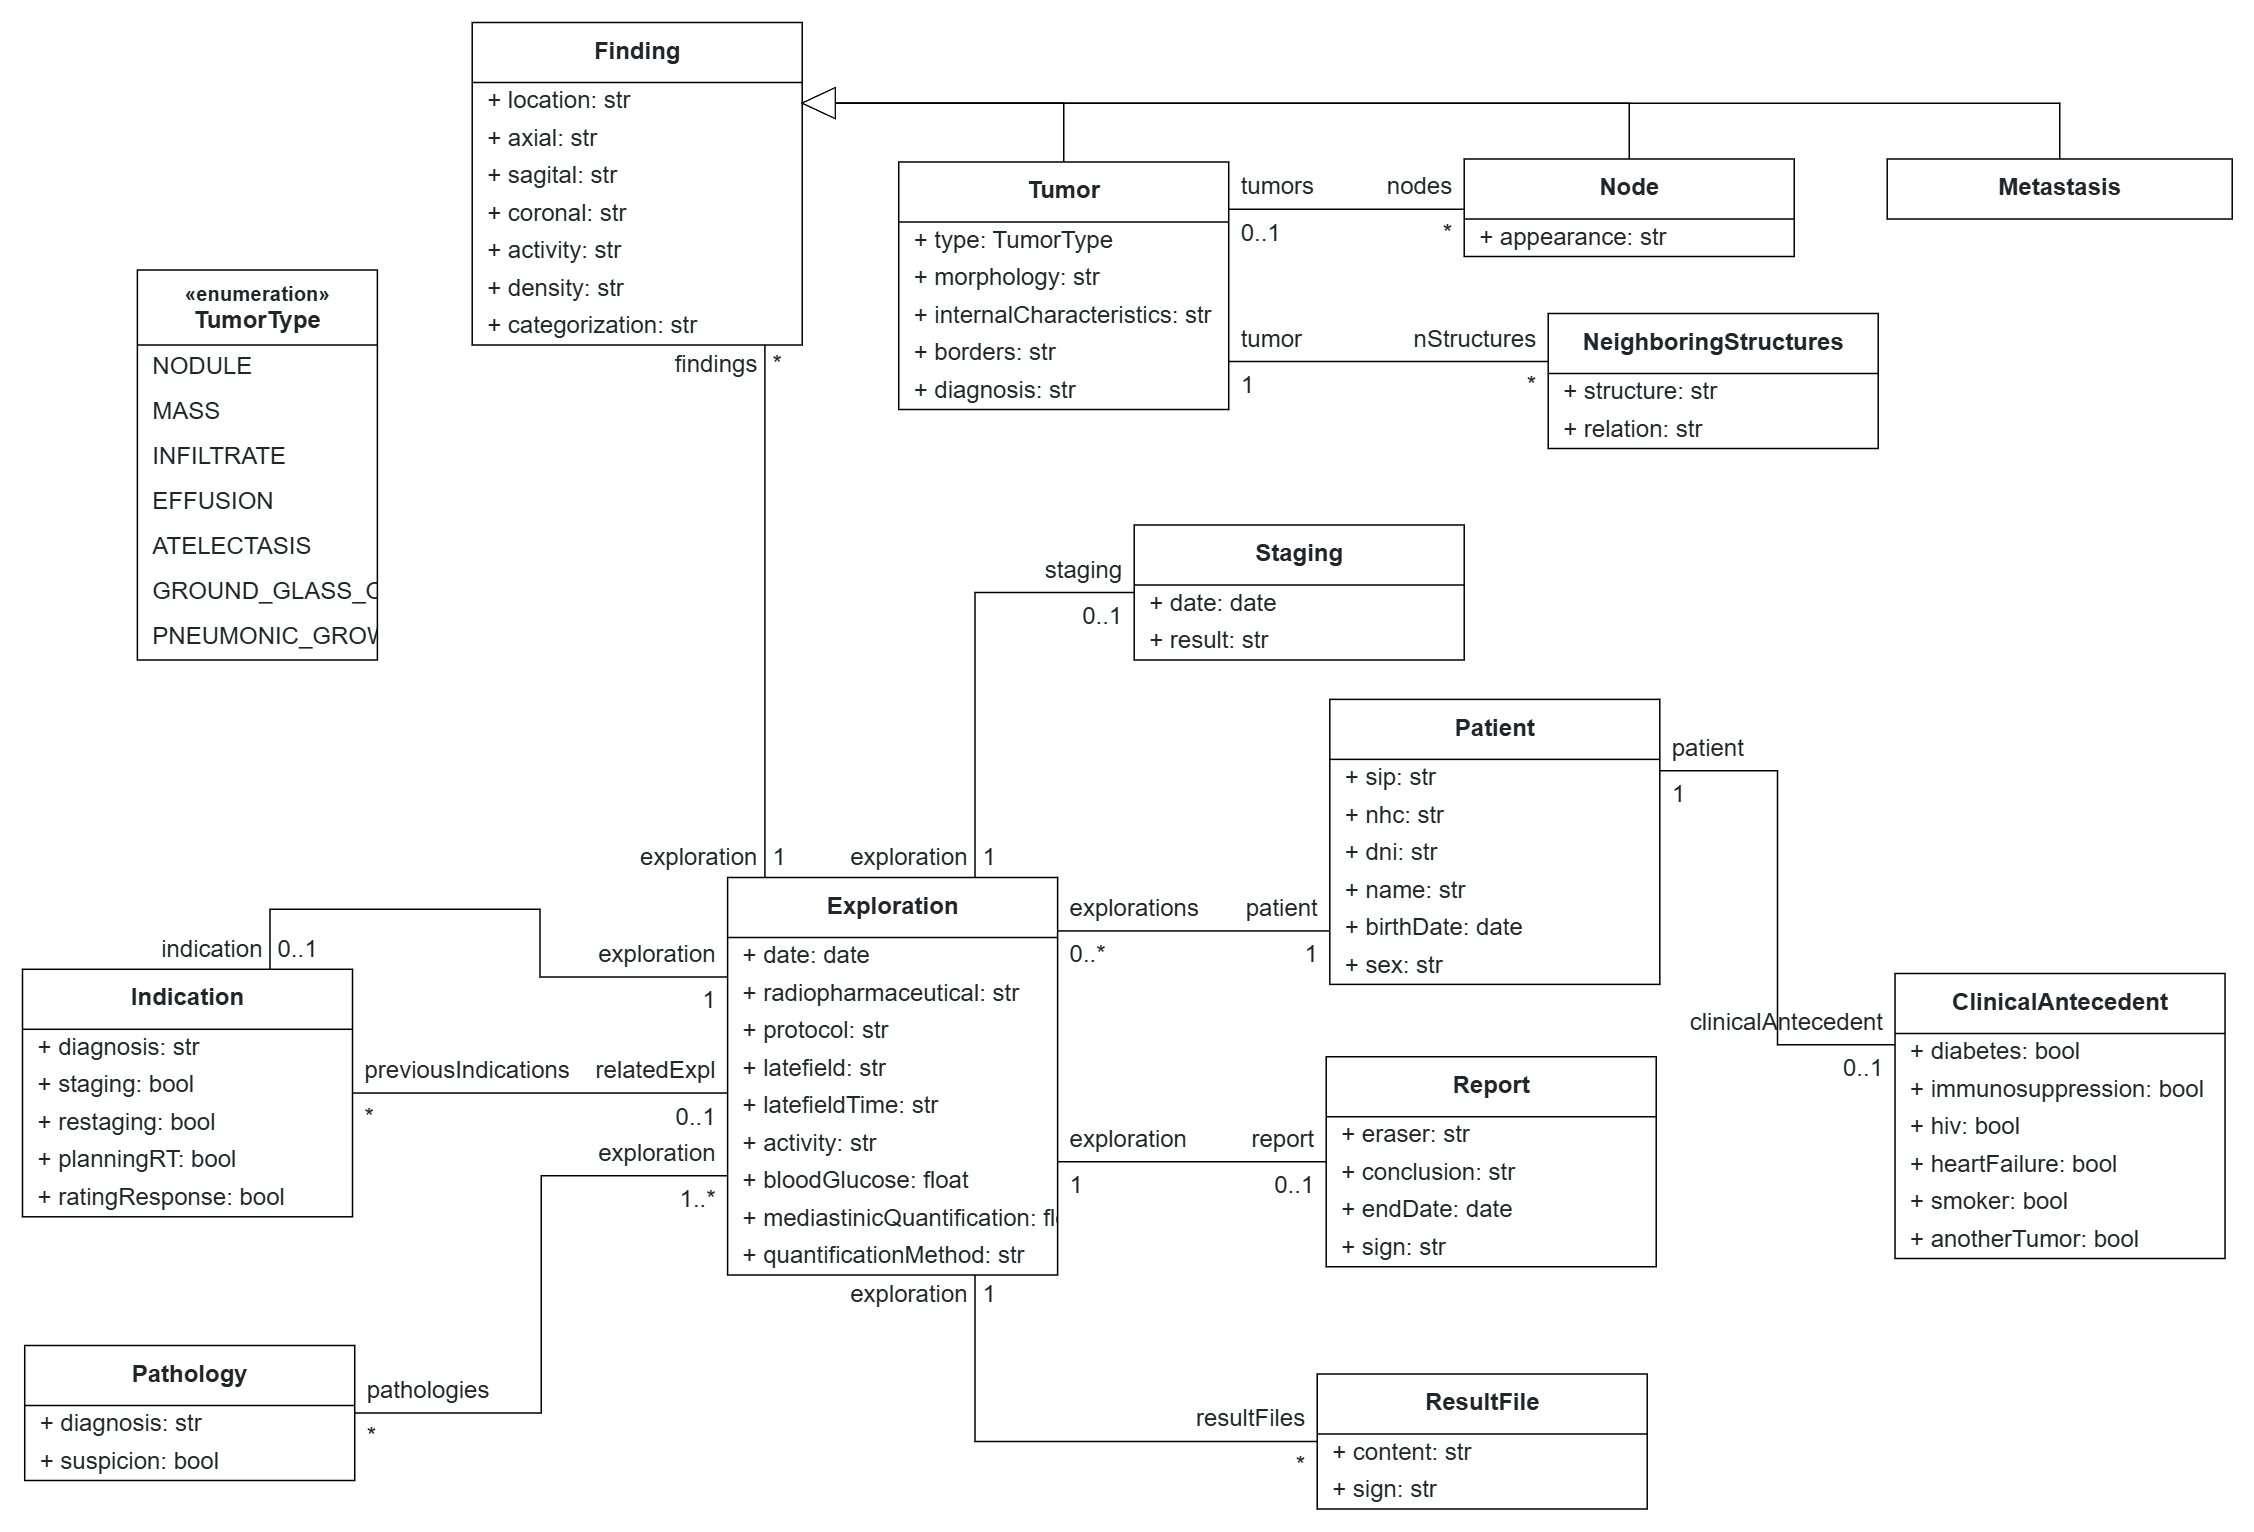
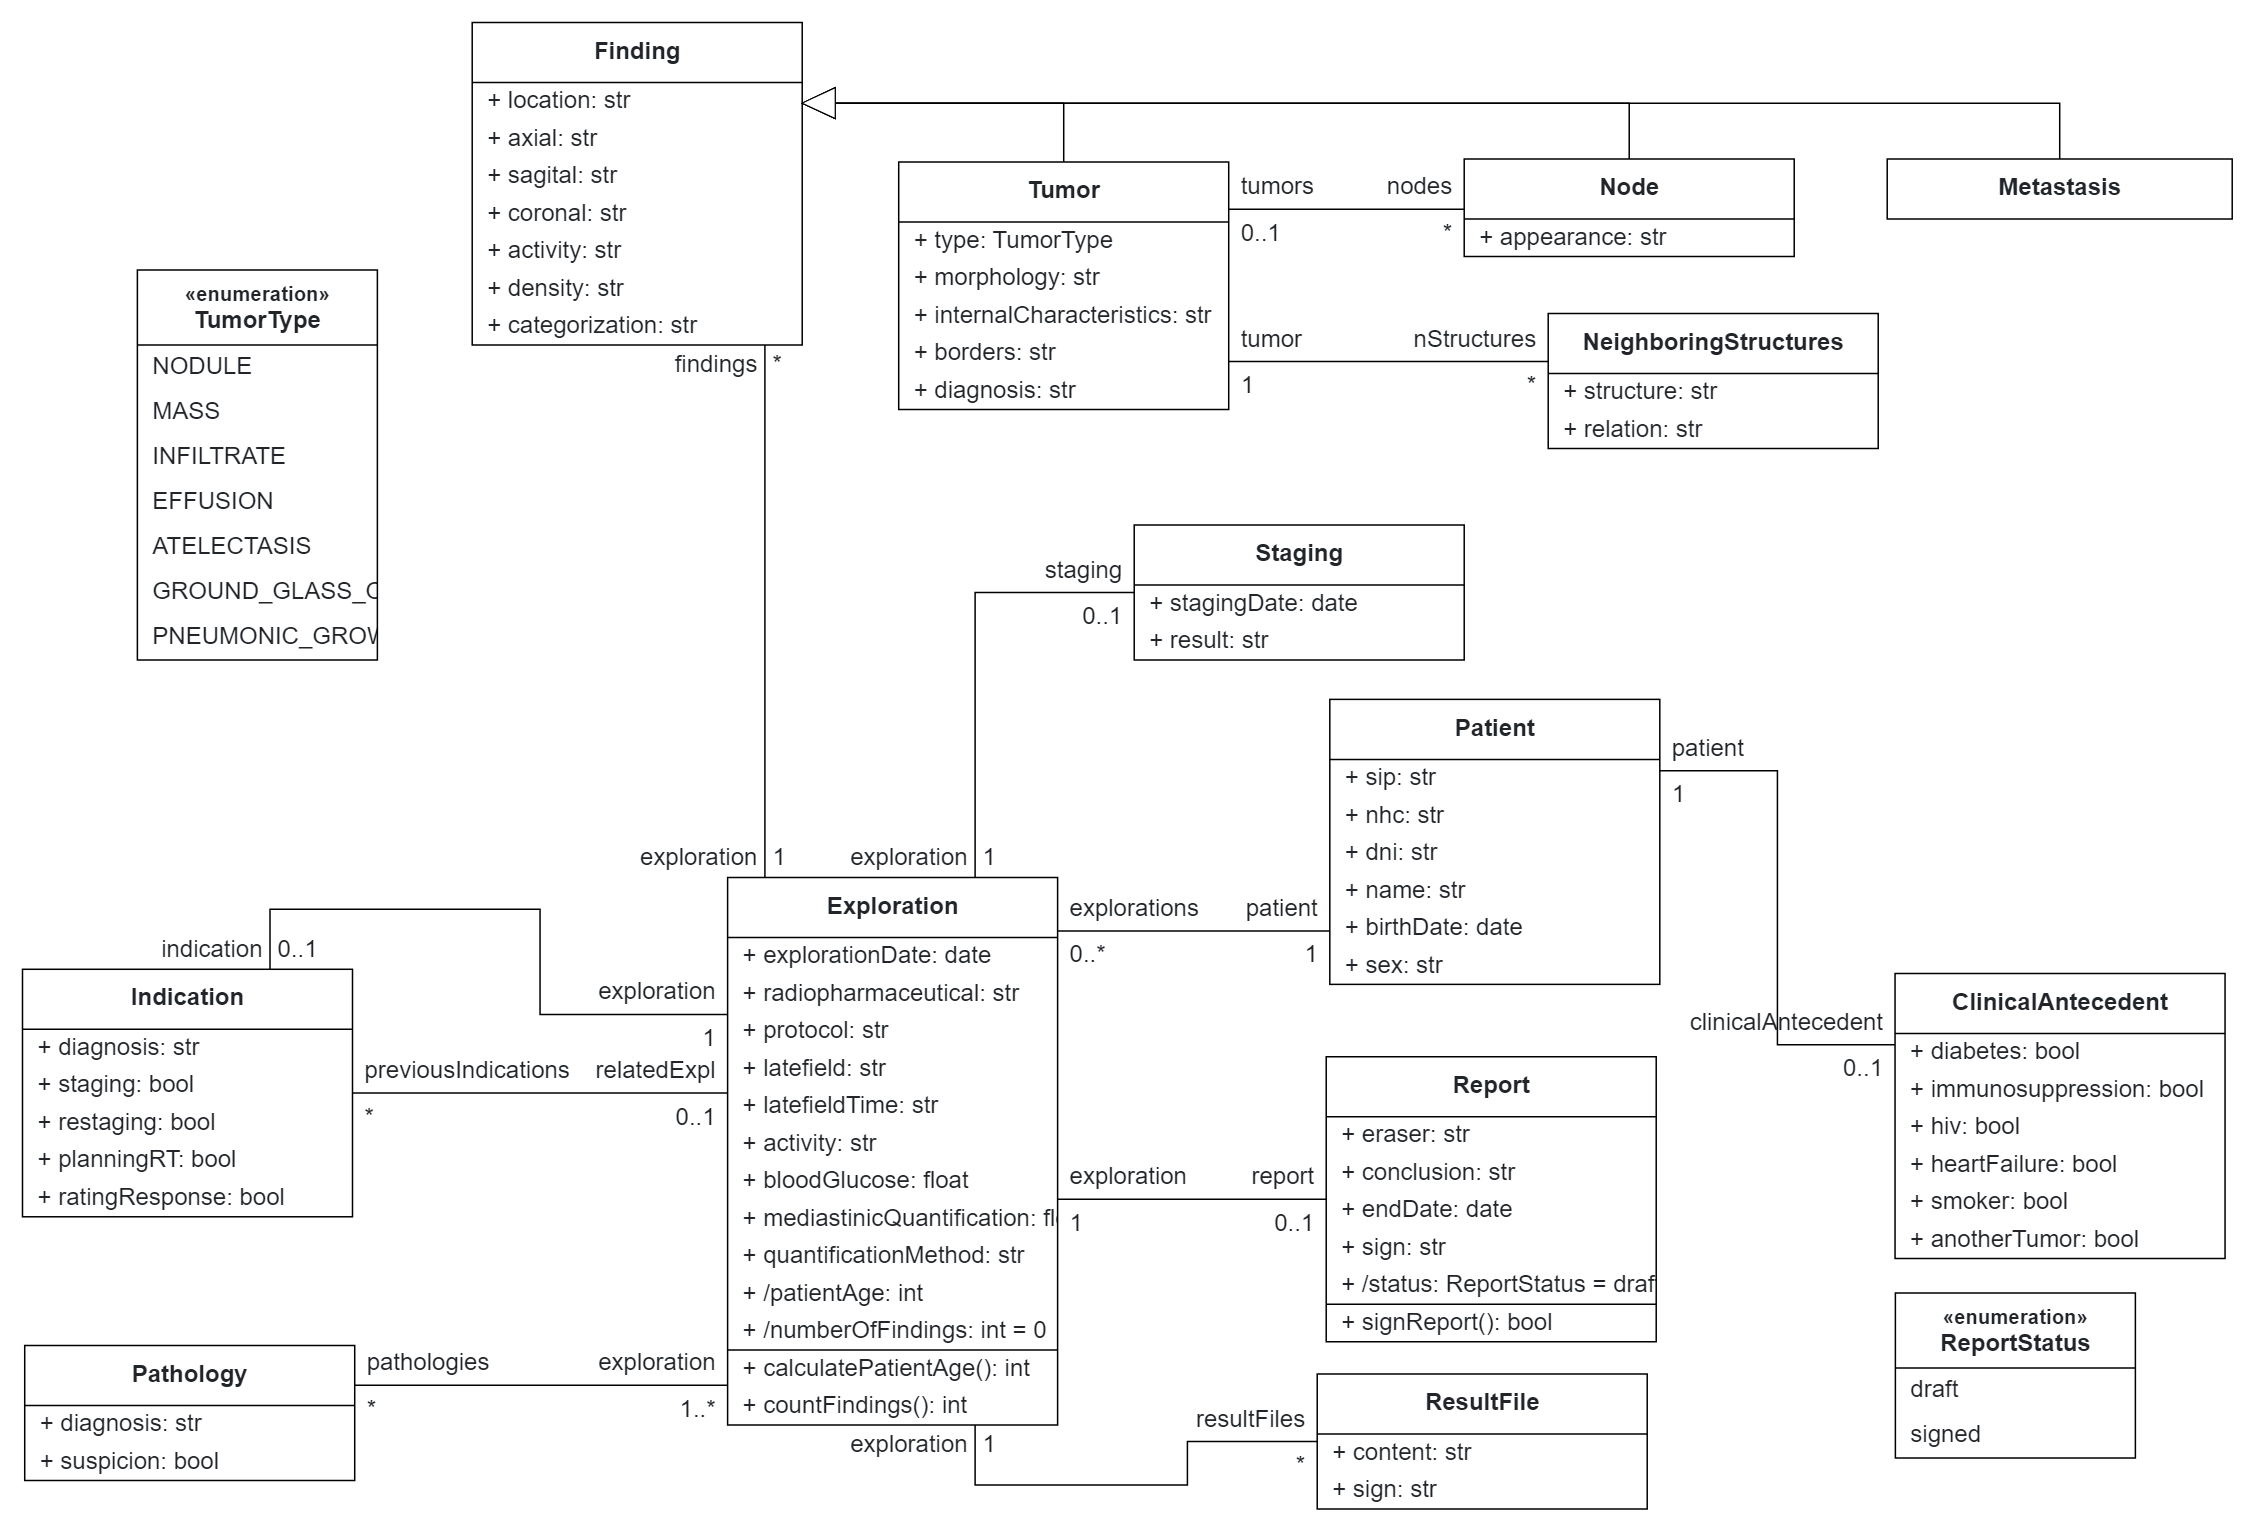
Add dynamic calculations and requirements to lung cancer variation 1

diff --git a/nuclear-medicine-lung-cancer/1-CRUD-and-dynamic-calculations/nl-requirements/requirements.md b/nuclear-medicine-lung-cancer/1-CRUD-and-dynamic-calculations/nl-requirements/requirements.md
@@ -1,3 +1,25 @@
 # Natural-Language Requirements
 
-This document contains the natural-language requirements specification for the application.
+## A system for managing PET/CT explorations of lung cancer patients
+### Patients
+The system keeps a record of every patient who undergoes a PET/CT examination. For each patient it stores the regional health card number (SIP), the clinical history number (NHC), the national identity document number (DNI), the full name, the date of birth and the sex.
+A patient may have one record of clinical antecedents, or none. That record states, as a set of yes/no answers, whether the patient has diabetes, is immunosuppressed, has HIV, suffers from heart failure, is a smoker, and has had another tumor. A clinical-antecedent record always belongs to exactly one patient.
+### Explorations
+An exploration is a PET/CT study performed on a patient. Every exploration belongs to exactly one patient, and a patient may have any number of explorations, or none at all.
+For each exploration the system records the date it was performed, the radiopharmaceutical used, the acquisition protocol, the late field acquired and the time at which it was acquired, the administered activity, the patient's blood glucose level, the mediastinal quantification value and the method used to obtain that quantification.
+Two values of an exploration are not typed in but worked out automatically. The patient's age is the number of full years between the patient's date of birth and the date of the exploration. The number of findings is the count of findings revealed by the exploration, and is zero for a new exploration. An exploration offers two actions, each of which returns the calculated value: one computes the patient's age at the time of the exploration, and the other counts the findings it revealed.
+### Indications and pathologies
+An exploration may have one indication, or none, describing why the study was requested. An indication always belongs to exactly one exploration. It records the suspected diagnosis as free text, and states, as yes/no answers, whether the study is requested for staging, for restaging, for radiotherapy planning and for rating the response to a treatment.
+To keep the patient's diagnostic history connected, an exploration may also refer to any number of previous indications. A given indication can be referred to as a previous indication by at most one exploration.
+The system also records pathologies. Each pathology stores a diagnosis as free text and whether it is only a suspicion. A pathology relates to at least one exploration and may relate to several, and an exploration may be related to any number of pathologies, or none.
+### Findings
+An exploration may reveal any number of findings, or none. Each finding belongs to exactly one exploration. For every finding the system stores its location, its measurements in the axial, sagittal and coronal planes, its metabolic activity, its density and its categorization.
+Three specialised kinds of findings exist, and all of them reuse exactly the same details as a general finding: tumors, lymph nodes and metastases.
+A tumor additionally records its type, its morphology, its internal characteristics, its borders and a diagnosis. The type of a tumor can only be one of the following: nodule, mass, infiltrate, effusion, atelectasis, ground-glass opacity or pneumonic-growth tumor.
+A tumor may be related to any number of neighboring structures, or none. Each neighboring-structure record belongs to exactly one tumor and stores the name of the structure and how the tumor relates to it.
+A lymph node additionally records its appearance. A lymph node may be associated with one tumor, or with none, and a tumor may be associated with any number of lymph nodes.
+### Staging, report and result files
+From an exploration the system may calculate one staging, or none. A staging always belongs to exactly one exploration and records the date it was established and its result.
+An exploration may generate one report, or none. A report always belongs to exactly one exploration. It stores the draft text written by the physician, the conclusion, the date on which it was finished and the physician's signature.
+Every report also has a status, which is not set by hand. It can only be one of two things: draft or signed, and every new report starts as a draft. A report offers a single action: signing it, which reports back whether it succeeded. Signing is refused if the report is already signed, or if it has no conclusion or no signature; otherwise the report becomes signed and the date on which it was finished is set to the current date.
+An exploration may also produce any number of result files, or none. Each result file belongs to exactly one exploration and stores its content and a signature.

diff --git a/nuclear-medicine-lung-cancer/1-CRUD-and-dynamic-calculations/low-code-model/README.md b/nuclear-medicine-lung-cancer/1-CRUD-and-dynamic-calculations/low-code-model/README.md
@@ -14,6 +14,18 @@ An `Exploration` can reveal one or more `Finding`s, representing relevant observ
 
 The `Patient` side of the model stores relevant clinical background. A `ClinicalAntecedent` represents comorbidities or risk factors, such as diabetes or smoking history.
 
+## Dynamic Calculations
+
+Some values are not entered by the user but calculated by the application. They are modeled as derived attributes, together with the methods that compute them:
+
+| Class | Derived attribute | Method | Behavior |
+|---|---|---|---|
+| `Exploration` | `patientAge: int` | `calculatePatientAge(): int` | Number of full years between the patient's `birthDate` and the exploration's `explorationDate`. |
+| `Exploration` | `numberOfFindings: int` (default `0`) | `countFindings(): int` | Number of `Finding`s revealed by the exploration. |
+| `Report` | `status: ReportStatus` (default `draft`) | `signReport(): bool` | Refused (`False`) if the report is already signed or has no `conclusion` or `sign`; otherwise sets `status` to `signed` and `endDate` to today, and returns `True`. |
+
+The `ReportStatus` enumeration has two literals: `draft` and `signed`.
+
 ## Opening the Project
 
 1. Go to [BESSER Web Editor](https://editor.besser-pearl.org/)
